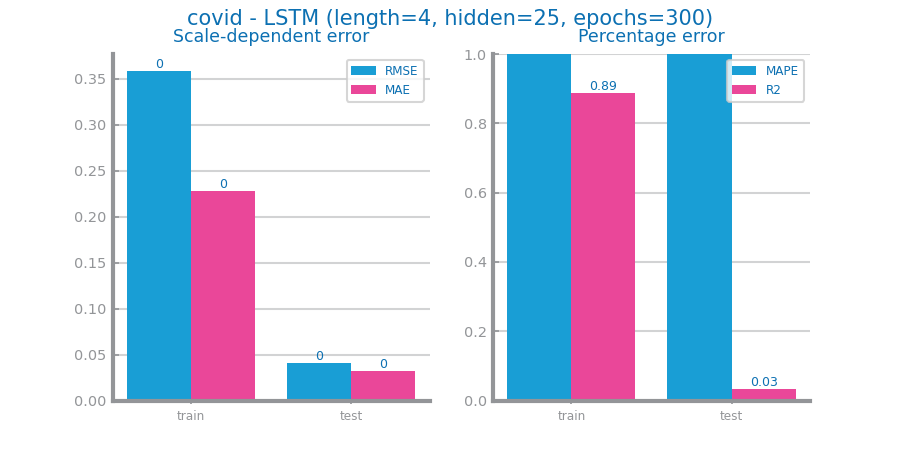
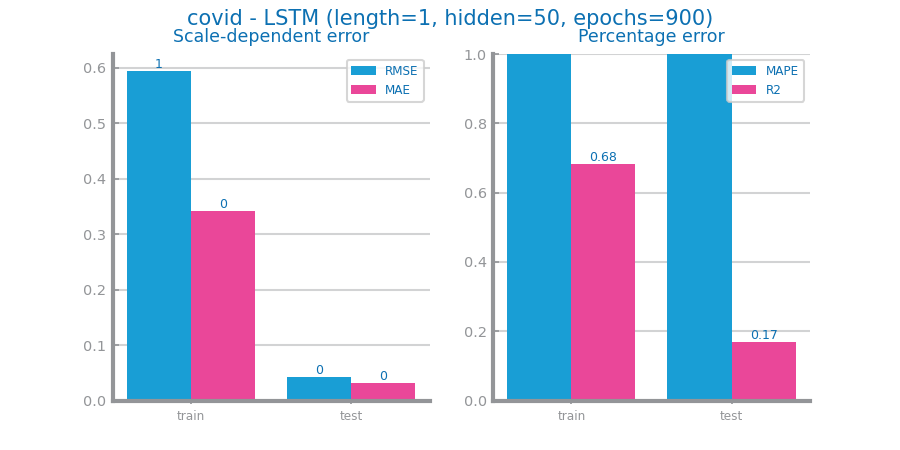
lstms with more sequence len

diff --git a/forecasting_health/forecasting/lstms.py b/forecasting_health/forecasting/lstms.py
@@ -67,7 +67,7 @@ timecol: str = "date"
 measure: str = "R2"
 
 data: DataFrame = read_csv(filename, index_col=timecol, sep=",", decimal=".", parse_dates=True)
-data = data.diff().diff()
+data = data.diff()
 data.iloc[0] = 0
 data.iloc[1] = 0
 data = scale_all_dataframe(data)
@@ -91,7 +91,7 @@ from config.dslabs_functions import FORECAST_MEASURES, DELTA_IMPROVE, plot_multi
 
 
 def lstm_study(train, test, nr_episodes: int = 1000, measure: str = "R2"):
-    sequence_size = [2, 4, 8]
+    sequence_size = [1,2,3, 4, 8]
     nr_hidden_units = [25, 50, 100]
 
     step: int = nr_episodes // 10
@@ -139,6 +139,7 @@ def lstm_study(train, test, nr_episodes: int = 1000, measure: str = "R2"):
 
 
 best_model, best_params = lstm_study(train, test, nr_episodes=3000, measure=measure)
+savefig(f"forecasting_health/forecasting/images/lstsms_study.png")
 
 
 from config.dslabs_functions import plot_forecasting_eval
